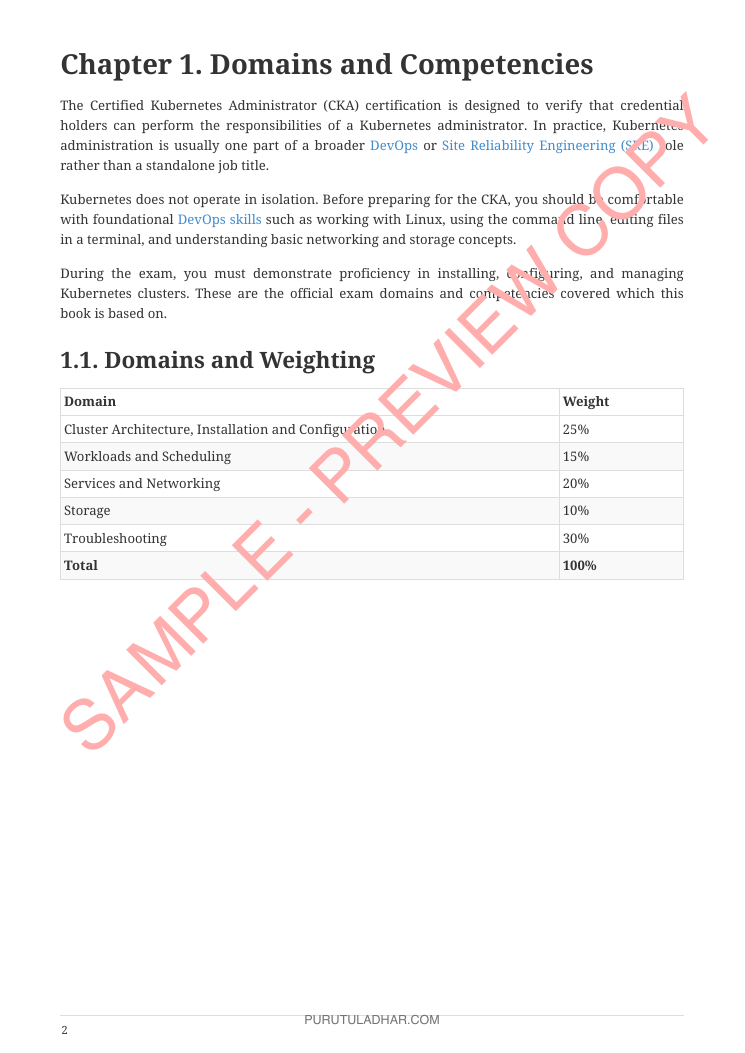
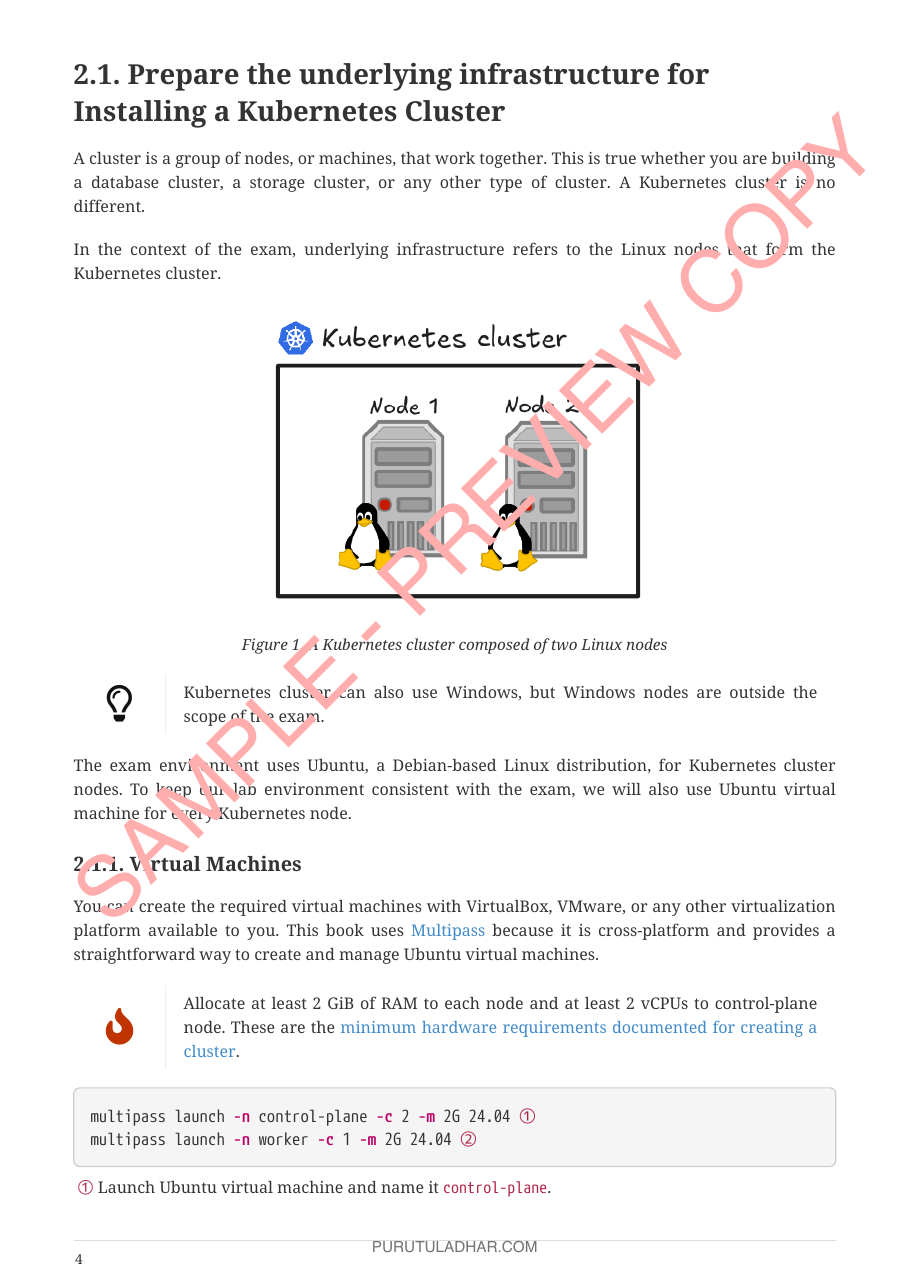
Use Chapter 2.1 page as sample preview

diff --git a/app/page.tsx b/app/page.tsx
@@ -89,7 +89,7 @@ export default function Home() {
                 src="/images/cka-exam-guide-sample.png"
                 width={420}
                 height={594}
-                alt="Sample page from Chapter 1: exam domains and weighting"
+                alt="Sample page from Chapter 2: preparing the underlying infrastructure for a Kubernetes cluster"
                 className="w-full max-w-[320px] rounded-[4px] border border-rule bg-white shadow-[0_20px_40px_-24px_rgba(14,26,46,0.35)]"
               />
             </div>
